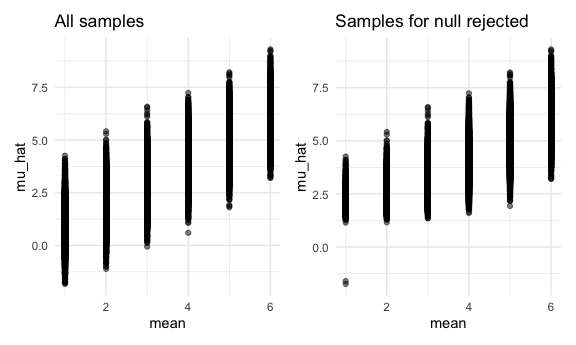
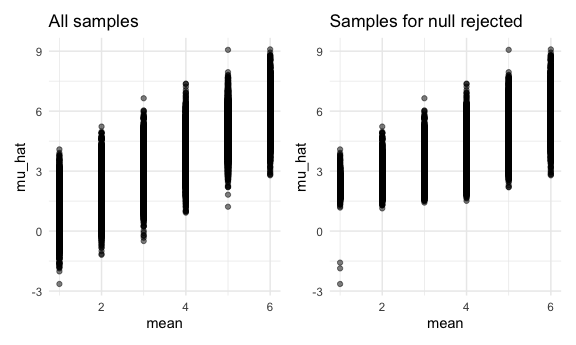
further edits to problem 3 answers, plots created, data files loaded for problem 1

diff --git a/p8105_hw5_jl2361.md b/p8105_hw5_jl2361.md
@@ -5,6 +5,8 @@ Jennifer Lee (UNI: jl2361)
 
 # Problem 1
 
+## Data load & tidying
+
 This zip file contains data from a longitudinal study that included a
 control arm and an experimental arm. Data for each participant is
 included in a separate file, and file names include the subject ID and
@@ -14,13 +16,19 @@ Create a tidy dataframe containing data from all participants, including
 the subject ID, arm, and observations over time:
 
 Start with a dataframe containing all file names; the list.files
-function will help Iterate over file names and read in data for each
-subject using purrr::map and saving the result as a new variable in the
-dataframe Tidy the result; manipulate file names to include control arm
-and subject ID, make sure weekly observations are “tidy”, and do any
-other tidying that’s necessary Make a spaghetti plot showing
-observations on each subject over time, and comment on differences
-between groups.
+function will help
+
+Iterate over file names and read in data for each subject using
+purrr::map and saving the result as a new variable in the dataframe
+
+Tidy the result; manipulate file names to include control arm and
+subject ID, make sure weekly observations are “tidy”, and do any other
+tidying that’s necessary
+
+## Plot
+
+Make a spaghetti plot showing observations on each subject over time,
+and comment on differences between groups.
 
 # Problem 2
 
@@ -41,7 +49,7 @@ homicide_df =
 The raw data reports data on homicides in 50 U.S. cities describing the
 date, location, victim details, and case disposition. There are 52179
 rows/observations and 13 columns/variables after we create the
-`city_state` variable. We note that some state abbreviations were not
+`city_state` variable. We note that some state abbreviations are not
 completely capitalized and that there appears to be a typo for the city
 of Tulsa, so we fix these data entry errors.
 
@@ -126,10 +134,9 @@ homicide %>%
 We then create a `myproptest` function to apply the prop.test function
 to estimate the proportio of homicides that are unsolved, apply the
 broom::tidy, and save the output (estimated proportion and upper and
-lower bounds of the 95% confidence interval) as a tibble. We use
-`myproptest` for the city of Baltimore, MD and note that the filtered
-dataframe needs to be converted to a list of vectors prior to applying
-`myproptest`.
+lower bounds of the 95% CI) as a tibble. We use `myproptest` for the
+city of Baltimore, MD and note that the filtered dataframe needs to be
+converted to a list of vectors prior to applying `myproptest`.
 
 ``` r
 myproptest = function(x) {
@@ -172,9 +179,9 @@ baltimore
     ## 1    0.646    0.628     0.663
 
 Now, we run `prop.test` for each of the cities in the dataset and
-extract both the proportion of unsolved homicides and the confidence
-interval for each within a “tidy” pipeline, making use of purrr::map2,
-list columns, and unnest.
+extract both the proportion of unsolved homicides and the CIs for each
+within a “tidy” pipeline, making use of purrr::map2, list columns, and
+unnest.
 
 ``` r
 homicide_prop = 
@@ -186,8 +193,7 @@ homicide_prop =
   select(city_state, estimate, conf.low, conf.high) %>%
   rename(
     conf_low = conf.low,
-    conf_high = conf.high
-  )
+    conf_high = conf.high)
 
 homicide_prop
 ```
@@ -229,23 +235,19 @@ homicide_prop %>%
 
 # Problem 3
 
-When designing an experiment or analysis, a common question is whether
-it is likely that a true effect will be detected – put differently,
-whether a false null hypothesis will be rejected. The probability that a
-false null hypothesis is rejected is referred to as power, and it
-depends on several factors, including: the sample size; the effect size;
-and the error variance. In this problem, you will conduct a simulation
-to explore power in a one-sample t-test.
+## Simulations
 
-First set the following design elements:
+First, we set the following design elements:
 
-Fix n=30 Fix σ=5 Set μ=0. Generate 5000 datasets from the model
+Fix n=30 Fix σ=5 Set μ=0.
+
+We generate 5000 datasets from the model using `expand_grid` and call
+this `sim_df`:
 
 x∼Normal\[μ,σ\]
 
-For each dataset, save μ̂ and the p-value arising from a test of H:μ=0
-using α=0.05. Hint: to obtain the estimate and p-value, use broom::tidy
-to clean the output of t.test.
+We also create a `sim_ttest` function to map to `sim_df` and save μ̂ and
+the p-value arising from a test of H:μ=0 using α=0.05
 
 ``` r
 sim_ttest = function(n = 30, mean, sigma = 5) {
@@ -255,12 +257,12 @@ sim_ttest = function(n = 30, mean, sigma = 5) {
   )
   mu_hat = 
     sim_data %>% 
-    t.test() %>%
+    t.test(mu = 0, conf.level = 0.95) %>%
     broom::tidy() %>%
     select(estimate)
   p_value =
     sim_data %>% 
-    t.test() %>%
+    t.test(mu = 0, conf.level = 0.95) %>%
     broom::tidy() %>%
     select(p.value)
   
@@ -269,39 +271,71 @@ sim_ttest = function(n = 30, mean, sigma = 5) {
     p_value) %>%
     rename(
       mu_hat = estimate,
-      p_value = p.value
-    )
+      p_value = p.value)
 
 }
 
 sim_df = 
   expand_grid(
     mean = 0,
-    iter = 1:5000
-  ) %>% 
+    iter = 1:5000) %>% 
   mutate(
-    ttest_df = map(.x = mean, ~ sim_ttest(mean = .x))
-  ) %>% 
+    ttest_df = map(.x = mean, ~ sim_ttest(mean = .x))) %>% 
   unnest(ttest_df)
+
+sim_df
 ```
 
-Repeat the above for μ={1,2,3,4,5,6}
+    ## # A tibble: 5,000 × 4
+    ##     mean  iter mu_hat p_value
+    ##    <dbl> <int>  <dbl>   <dbl>
+    ##  1     0     1  0.604   0.565
+    ##  2     0     2  0.644   0.540
+    ##  3     0     3 -0.487   0.643
+    ##  4     0     4  0.218   0.762
+    ##  5     0     5  0.636   0.523
+    ##  6     0     6  0.121   0.906
+    ##  7     0     7  0.695   0.339
+    ##  8     0     8 -1.20    0.116
+    ##  9     0     9  0.711   0.534
+    ## 10     0    10 -0.890   0.371
+    ## # … with 4,990 more rows
+
+We repeat the above for μ={1,2,3,4,5,6}.
 
 ``` r
 sim_df2 = 
   expand_grid(
     mean = c(1, 2, 3, 4, 5, 6),
-    iter = 1:5000
-  ) %>% 
+    iter = 1:5000) %>% 
   mutate(
-    ttest_df = map(.x = mean, ~ sim_ttest(mean = .x))
-  ) %>% 
+    ttest_df = map(.x = mean, ~ sim_ttest(mean = .x))) %>% 
   unnest(ttest_df)
+
+sim_df2
 ```
 
-Make a plot showing the proportion of times the null was rejected (the
-power of the test) on the y axis and the true value of μ on the x axis.
-Describe the association between effect size and power.
+    ## # A tibble: 30,000 × 4
+    ##     mean  iter mu_hat p_value
+    ##    <dbl> <int>  <dbl>   <dbl>
+    ##  1     1     1  1.01    0.244
+    ##  2     1     2  1.44    0.149
+    ##  3     1     3  0.448   0.637
+    ##  4     1     4  1.55    0.114
+    ##  5     1     5  0.255   0.802
+    ##  6     1     6  1.58    0.109
+    ##  7     1     7 -0.878   0.307
+    ##  8     1     8  1.07    0.198
+    ##  9     1     9  1.00    0.340
+    ## 10     1    10  1.03    0.260
+    ## # … with 29,990 more rows
+
+## Plots
+
+Here is a plot showing the proportion of times the null was rejected
+(the power of the test) on the y axis and the true value of μ on the x
+axis. As the effect size gets bigger, we see that power increases as
+well.
 
 ``` r
 sim_df2 %>% 
@@ -323,12 +357,14 @@ sim_df2 %>%
 
 <img src="p8105_hw5_jl2361_files/figure-gfm/unnamed-chunk-8-1.png" width="90%" />
 
-Make a plot showing the average estimate of μ̂ on the y axis and the true
-value of μ on the x axis. Make a second plot (or overlay on the first)
-the average estimate of μ̂ only in samples for which the null was
-rejected on the y axis and the true value of μ on the x axis. Is the
-sample average of μ̂ across tests for which the null is rejected
-approximately equal to the true value of μ? Why or why not?
+Next, here is a plot showing the average estimate of μ̂ on the y axis and
+the true value of μ on the x axis. There is also a second plot (right)
+showing the average estimate of μ̂ only in samples for which the null was
+rejected on the y axis and the true value of μ on the x axis.
+
+The sample average of μ̂ across test for which the null is rejected is
+approximately equal to the true value of μ. As the error variance
+decreases, power increases.
 
 ``` r
 mean_plot1 =
